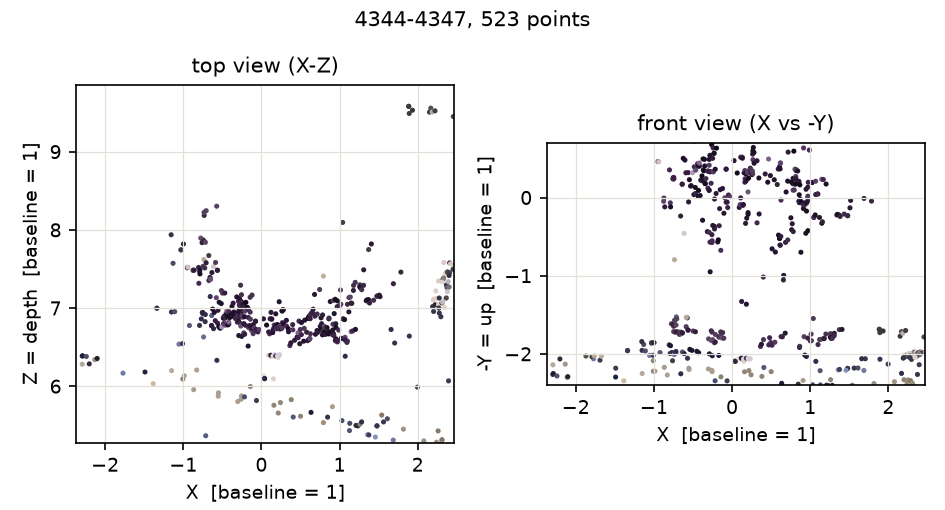
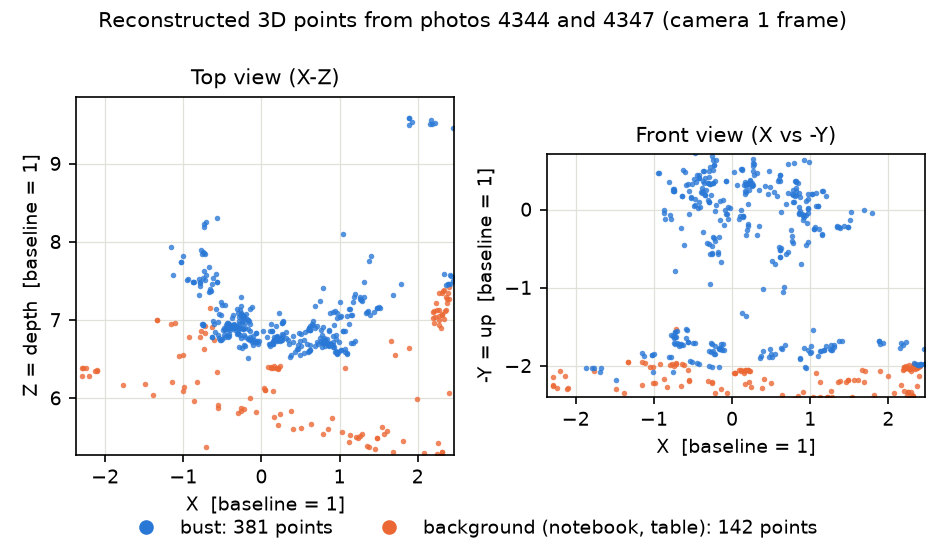
Bonus: colour the point cloud by bust / background

diff --git a/maman01/bonus_bust_reconstruction.py b/maman01/bonus_bust_reconstruction.py
@@ -21,7 +21,7 @@ Steps:
 
 Outputs (in outputs/bonus_bust/):
   photos.jpg             the photos
-  photos_small/          small copies of the photos without EXIF (no GPS), for the submission
+  photos_small/          small copies of the photos without EXIF (no GPS)
   K.txt                  the calibration matrix and where it came from
   results.csv            one row per pair (also how many 3D points are on the object)
   focal_check.csv        how the result changes when f is changed
@@ -29,6 +29,9 @@ Outputs (in outputs/bonus_bust/):
   scale_check.csv        rough size check using the ~35 cm shooting distance
   matches_<pair>.jpg     matches of the main pair (green = RANSAC inlier)
   cloud_<pair>.png       point cloud of the main pair
+
+The script needs the full-size photos in bonus/images, because K is read from
+their EXIF data. The small copies in photos_small are not enough to run it.
 
 Run:  python bonus_bust_reconstruction.py
 """
@@ -43,7 +46,7 @@ from utils.config import MIN_TRI_ANGLE_DEG
 from utils.dataset import ensure_dir, get_paths
 from utils.features import match_descriptors
 from utils.geometry import estimate_pose_repeated, estimate_relative_pose, rotation_angle_deg, sampson_distance
-from utils.plots import save_table
+from utils.plots import SERIES_COLORS, save_table
 from utils.reconstruction import filter_3d, projection_matrices, reprojection_error, triangulate
 
 ROOT = get_paths()["root"]
@@ -52,7 +55,7 @@ OUT = ensure_dir(os.path.join(get_paths()["outputs"], "bonus_bust"))
 SCALE = 1.0                      # 1.0 = full resolution
 SIFT_CONTRAST = 0.01             # OpenCV default is 0.04
 DIST_CM = 35.0                   # my rough distance from the bust while shooting
-SMALL_WIDTH = 1600               # width of the small copies for the submission
+SMALL_WIDTH = 1600               # width of the small copies
 
 
 def list_images():
@@ -133,7 +136,7 @@ def save_photos_sheet(files):
 
 
 def save_small_copies(files):
-    """Small copies for the submission. cv2.imwrite does not copy the EXIF, so no GPS."""
+    """Small copies of the photos. cv2.imwrite does not copy the EXIF, so no GPS."""
     out = ensure_dir(os.path.join(OUT, "photos_small"))
     for f in files:
         img = cv2.imread(os.path.join(IMG_DIR, f))
@@ -166,20 +169,27 @@ def save_matches_image(f1, f2, p1, p2, mask, out_path, max_draw=200):
     cv2.imwrite(out_path, cv2.resize(canvas, None, fx=0.25, fy=0.25, interpolation=cv2.INTER_AREA))
 
 
-def plot_cloud(X, colors_bgr, out_path, title):
-    """Top view and front view of the cloud, each point in its colour from photo 1."""
+def plot_cloud(X, on_obj, out_path, title):
+    """
+    Top view and front view of the cloud. Points on the bust and points on the
+    background get different colours (the photo colours are all dark, so they
+    don't separate the two).
+    """
     import matplotlib
     matplotlib.use("Agg")
     import matplotlib.pyplot as plt
+    from matplotlib.lines import Line2D
 
     plt.rcParams.update({"font.size": 9})
-    rgb = colors_bgr[:, ::-1] / 255.0
+    groups = [(~on_obj, SERIES_COLORS[1], "background (notebook, table): %d points" % (~on_obj).sum()),
+              (on_obj, SERIES_COLORS[0], "bust: %d points" % on_obj.sum())]
     # a few far points would squeeze the plot, so the axes show the central 96% of the points
     lo, hi = np.percentile(X, 2, axis=0), np.percentile(X, 98, axis=0)
-    fig, axes = plt.subplots(1, 2, figsize=(6.3, 3.4))
-    views = [("top view (X-Z)", 0, 2, 1.0, "X", "Z = depth"), ("front view (X vs -Y)", 0, 1, -1.0, "X", "-Y = up")]
+    fig, axes = plt.subplots(1, 2, figsize=(6.3, 3.7))
+    views = [("Top view (X-Z)", 0, 2, 1.0, "X", "Z = depth"), ("Front view (X vs -Y)", 0, 1, -1.0, "X", "-Y = up")]
     for ax, (name, a, b, sign, xl, yl) in zip(axes, views):
-        ax.scatter(X[:, a], sign * X[:, b], s=6, c=rgb, linewidths=0)
+        for sel, color, _ in groups:
+            ax.scatter(X[sel, a], sign * X[sel, b], s=7, c=color, alpha=0.8, linewidths=0)
         ax.set_xlim(lo[a], hi[a])
         ax.set_ylim(*sorted((sign * lo[b], sign * hi[b])))
         ax.set_aspect("equal", adjustable="box")
@@ -187,8 +197,11 @@ def plot_cloud(X, colors_bgr, out_path, title):
         ax.set_xlabel(xl + "  [baseline = 1]")
         ax.set_ylabel(yl + "  [baseline = 1]")
         ax.grid(True, color="#e1e0d9", linewidth=0.6)
+        ax.set_axisbelow(True)
+    handles = [Line2D([], [], marker="o", ls="", ms=6, color=c, label=l) for _, c, l in groups[::-1]]
     fig.suptitle(title, fontsize=10)
-    fig.tight_layout()
+    fig.legend(handles=handles, loc="lower center", ncol=2, frameon=False)
+    fig.tight_layout(rect=(0, 0.07, 1, 1))
     fig.savefig(out_path, dpi=150, facecolor="white")
     plt.close(fig)
 
@@ -243,10 +256,8 @@ def main():
     f1, f2 = files[best["i"]], files[best["i"] + 1]
     name = "%s-%s" % (short_name(f1), short_name(f2))
     save_matches_image(f1, f2, best["p1"], best["p2"], best["pose"].mask, os.path.join(OUT, "matches_%s.jpg" % name))
-    img1 = load_small(f1, color=True)
-    px = np.clip(np.round(best["q1"]).astype(int), 0, [img1.shape[1] - 1, img1.shape[0] - 1])
-    plot_cloud(best["X"], img1[px[:, 1], px[:, 0]].astype(float), os.path.join(OUT, "cloud_%s.png" % name),
-               "%s, %d points" % (name, len(best["X"])))
+    plot_cloud(best["X"], on_mask(masks[best["i"]], best["q1"]), os.path.join(OUT, "cloud_%s.png" % name),
+               "Reconstructed 3D points from photos %s (camera 1 frame)" % name.replace("-", " and "))
 
     # how sensitive is the result to f? (1.04 = f35 defined by the diagonal instead of the width)
     check = []
